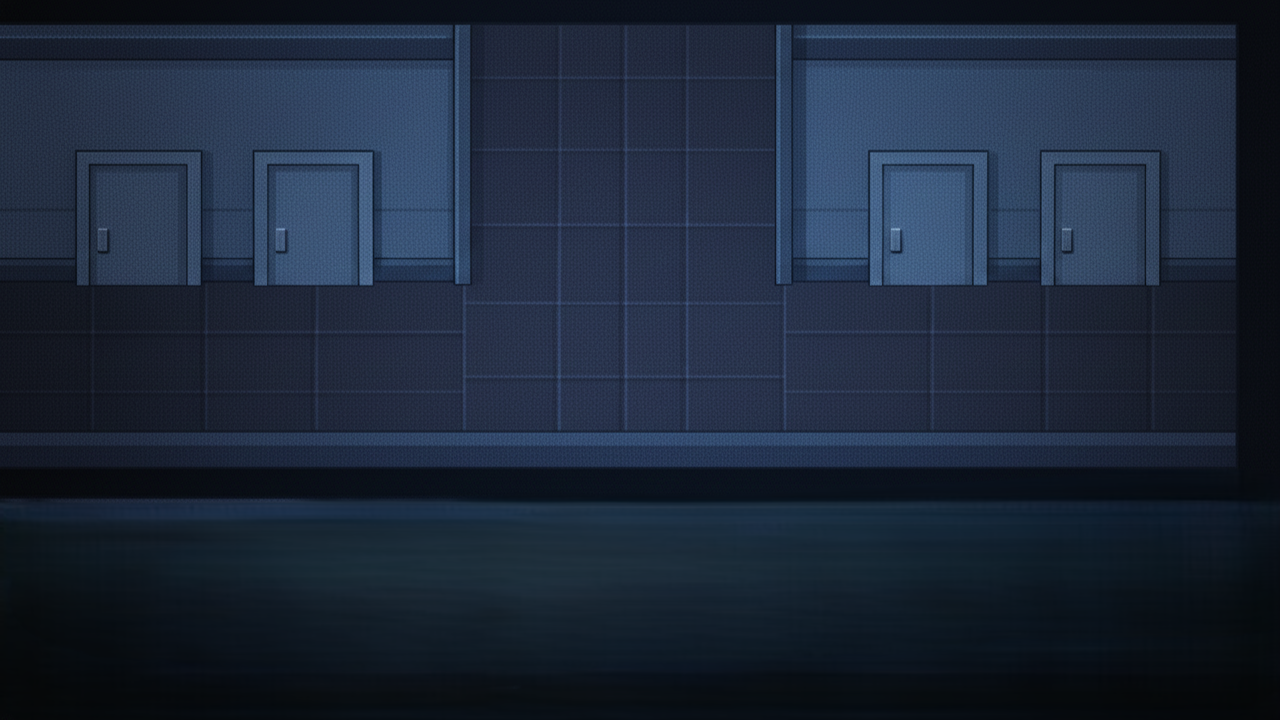
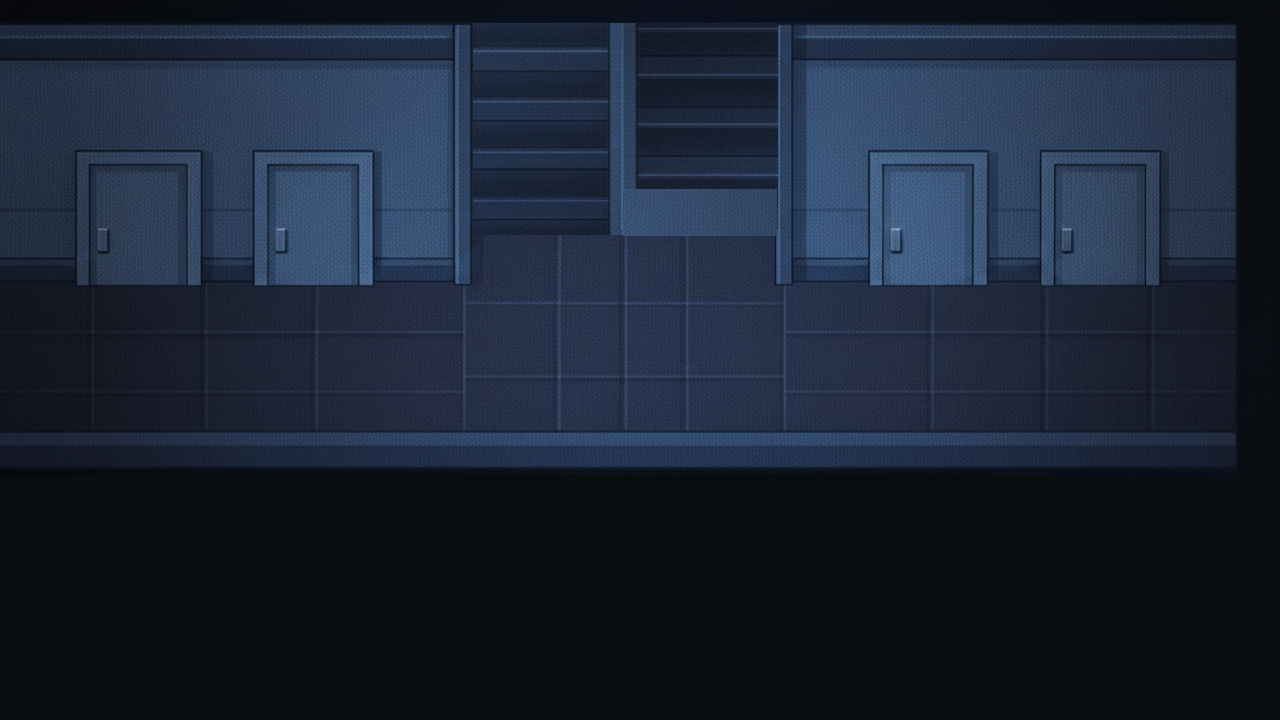
floor_1 <-> floor_2 구현 성공

Changed region(s): [[0.0, 0.6722, 0.9688, 0.9167], [0.3438, 0.0306, 0.625, 0.3361], [0.375, 0.1222, 0.4062, 0.1528]]

diff --git a/Python_Data/reporter.py b/Python_Data/reporter.py
@@ -149,11 +149,26 @@ class Reporter:
         if self.y <= 50: self.y = 50
         if self.y >= 645: self.y = 645
 
+        # 계단 충돌 처리
+
+
 
 
     def handle_event(self, event):
+        # FlashLight Toggle ON/OFF
         if event.type == SDL_KEYDOWN and event.key == SDLK_e:
             self.flashlight ^= 1
+            return
+
+        if event.type == SDL_KEYDOWN and event.key == SDLK_SPACE:
+            if play_mode.background.floor == 1:
+                play_mode.background.floor = 2
+                play_mode.background.load_image()
+                self.x, self.y = play_mode.background.start_pos_floor_2
+            elif play_mode.background.floor == 2:
+                play_mode.background.floor = 1
+                play_mode.background.load_image()
+                self.x, self.y = play_mode.background.start_pos_floor_1
             return
 
         if event.key in (SDLK_LEFT, SDLK_RIGHT, SDLK_UP, SDLK_DOWN):
@@ -209,6 +224,14 @@ class Reporter:
                            play_mode.background.floor_2_x2,
                            play_mode.background.floor_2_y2)
 
+        if play_mode.background.floor == 1:
+            if (play_mode.background.floor_1_x1 <= self.x <= play_mode.background.floor_1_x2 and
+                play_mode.background.floor_1_y1 <= self.y <= play_mode.background.floor_1_y2):
+                    self.font.draw(600, 705, 'Press SPACE to go UP', (255, 255, 0))
+        if play_mode.background.floor == 2:
+            if (play_mode.background.floor_2_x1 <= self.x <= play_mode.background.floor_2_x2 and
+                    play_mode.background.floor_2_y1 <= self.y <= play_mode.background.floor_2_y2):
+                self.font.draw(420, 705, 'Press SPACE to go DOWN', (255, 255, 0))
 
         '''
         if self.flashlight == 1:

diff --git a/Python_Data/play_mode.py b/Python_Data/play_mode.py
@@ -22,10 +22,10 @@ class Background:
         self.floor_2_x2 = 610
         self.floor_2_y2 = 695
 
-        if self.floor == 1:
-            self.image = load_image('FLOOR_1_1.png')
-        elif self.floor == 2:
-            self.image = load_image('FLOOR_2_1.png')
+        self.load_image()
+
+        self.start_pos_floor_1 = (640, 100)
+        self.start_pos_floor_2 = (540, 540)
 
         self.canvas_width, self.canvas_height = 1280, 720
 
@@ -43,9 +43,17 @@ class Background:
             (560, 0, 720, 310)
         ]
 
+    def load_image(self):
+        if self.floor == 1:
+            self.image = load_image('FLOOR_1.png')
+        elif self.floor == 2:
+            self.image = load_image('FLOOR_2.png')
+
     def draw(self):
         # 캔버스 중앙에 배경 이미지를 그립니다.
         self.image.draw(self.canvas_width // 2, self.canvas_height // 2)
+
+
 
     def update(self):
         # 배경은 움직이지 않으므로 update는 비워둡니다.
@@ -80,6 +88,7 @@ def init():
     game_world.add_object(background, 0)
 
     reporter = Reporter()
+    reporter.x, reporter.y = background.start_pos_floor_1
     game_world.add_object(reporter, 1)
 
 
